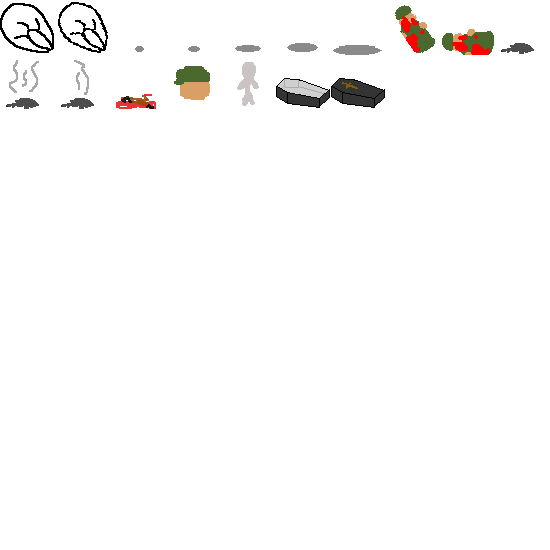
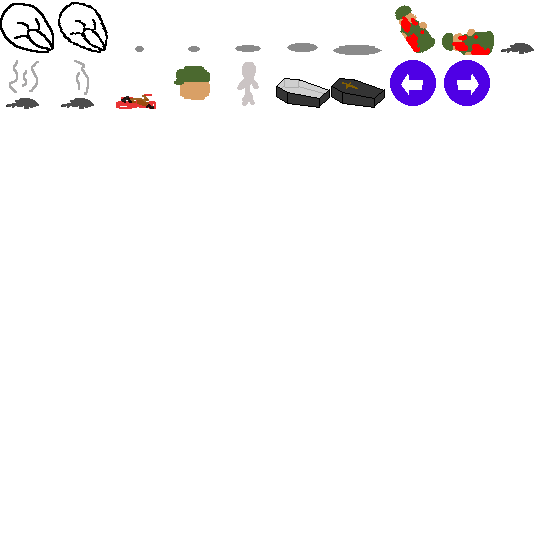
fix(*): little fixes

Changed region(s): [[0.7109, 0.0927, 0.8964, 0.2164]]

diff --git a/minesweeper/src/game/city/City.js b/minesweeper/src/game/city/City.js
@@ -44,6 +44,8 @@ export default class City {
             Consts.Citizen.RightX - Consts.Citizen.LeftX,
             Consts.Viewport.Height);
 
+        scene.physics.world.on('worldbounds', me._onWorldBounds);
+
         me._citizenPool = new CitizenPool(scene, status, me._onCitizenClick, me);       
         me._citizenCount = Config.Levels[status.level].CitizenCount;
     }
@@ -80,5 +82,10 @@ export default class City {
 
         me._citizenPool.killAndHide(citizen);
         me._status.free();
+    }
+
+    _onWorldBounds(body) {
+        const container = body.gameobject;
+        console.log('banana');
     }
 }

diff --git a/minesweeper/src/game/Config.js b/minesweeper/src/game/Config.js
@@ -40,8 +40,8 @@ export default class Config {
         {
             Mines: 10,
             TimerDeathProbability: 25,
-            ReserveStartCount: 0,
-            StartInCity: true,
+            ReserveStartCount: 5,
+            StartInCity: false,
             CitizenCount: 20,
             MinCitizenSpeed: 50,
             MaxCitizenSpeed: 100,

diff --git a/minesweeper/src/game/minesweeper/Minesweeper.js b/minesweeper/src/game/minesweeper/Minesweeper.js
@@ -177,7 +177,7 @@ export default class Minesweeper {
         me._status.free();
         me._field.lockAlpha = false;
 
-        if (me._clock.isAlarm() && me._soldiers.length == 0)
+        if (me._soldiers.length == 0)
             me._clock.stop();
 
         if (!me._clock.isAlarm() && !me._clock.isRunning() && me._soldiers.length > 0)

diff --git a/minesweeper/src/game/TransferButton.js b/minesweeper/src/game/TransferButton.js
@@ -1,0 +1,14 @@
+import Phaser from '../lib/phaser.js';
+
+export default class TransferButton {
+
+    _scene;
+
+    _sprite;
+
+    constructor(scene) {
+        const me = this;
+
+         // me._sprite
+    }
+}
